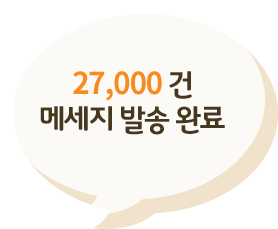
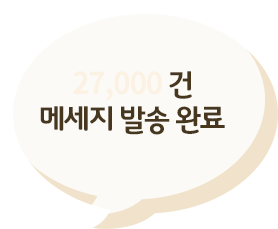
2222

Changed region(s): [[0.259, 0.3057, 0.6043, 0.4585]]

diff --git a/css/main.css b/css/main.css
@@ -475,6 +475,15 @@ body {
 	top: -7px;
 	/* display: inline-block; */
 }
+.section2-wrap .inner .maumbot span {
+	position: absolute;
+	font-size: 30px;
+	color: #f68a1f;
+	font-weight: bold;
+	text-align: right;
+	right: 55px;
+	top: 61px;
+}
 .section2-wrap .inner .slider {
 	position: relative;
 	text-align: center;

diff --git a/index.php b/index.php
@@ -119,10 +119,16 @@ document.write(unescape("%3Cscript src='" + _nsmart.host + "n00.nsmartad.com/etc
                 </div>
                 <div class="title">
                 </div>
+<?
+    $total_query 	= "SELECT * FROM member_info_9 WHERE mb_serial <> ''";
+	$total_result 	= mysqli_query($my_db, $total_query);
+	$total_count	= mysqli_num_rows($total_result);
+?>                
                 <div class="maumbot">
                     <div class="chat1"></div>
                     <div class="bot"></div>
                     <div class="chat2"></div>
+                    <span><?=number_format($total_count)?></span>
                 </div>
                 <div class="slider">
                     <div class="slder-area">
